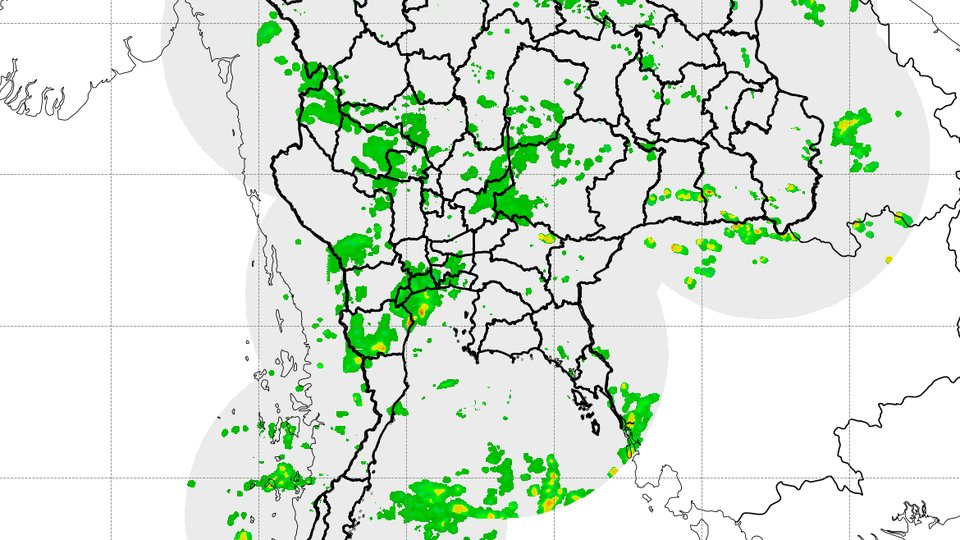
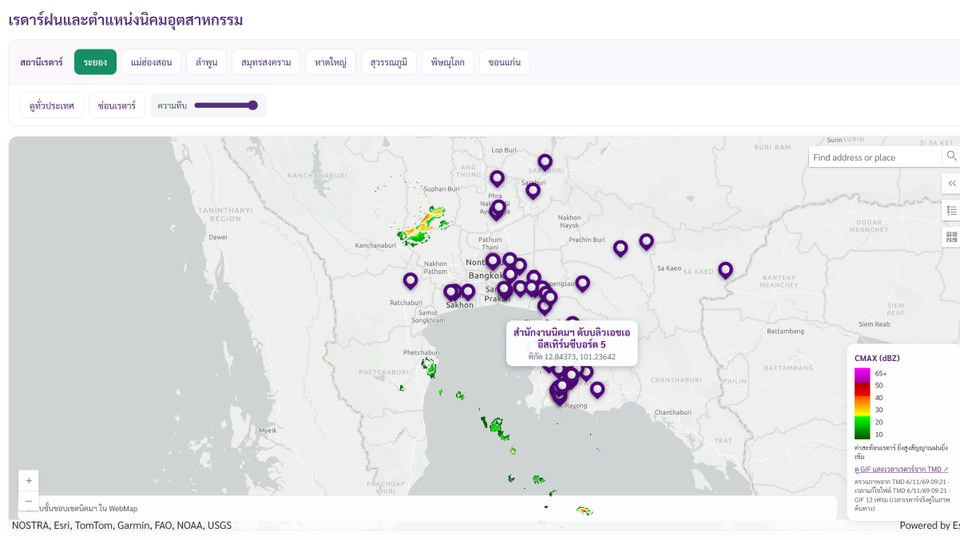
Use real screenshot for rain radar card cover
Claude-Session: https://claude.ai/code/session_01H3bH2N6GZ2F843eaWwxDrr

diff --git a/index.html b/index.html
@@ -254,7 +254,7 @@ footer{background:var(--ink);color:#b9c0bc;font-size:14px}
         </a>
 
         <a class="card" href="https://thanawan-ki.github.io/ieat-emonitoring-line-alert/daily-situation.html" target="_blank" rel="noopener">
-          <span class="card-media"><img src="assets/cover-radar.jpg" alt="ภาพเรดาร์ฝนรวมของกรมอุตุนิยมวิทยา" data-en-alt="Thai Meteorological Department radar composite" width="960" height="540" loading="lazy"><span class="card-tag"><span data-en="Map">แผนที่</span></span></span>
+          <span class="card-media"><img src="assets/cover-radar.jpg?v=20261106" alt="หน้าจอระบบเรดาร์ฝนและตำแหน่งนิคมอุตสาหกรรม สถานีเรดาร์ระยอง" data-en-alt="Screenshot of the rain radar system showing industrial estates around the Rayong radar" width="960" height="540" loading="lazy"><span class="card-tag"><span data-en="Map">แผนที่</span></span></span>
           <span class="card-body">
             <h3 data-en="Rain radar &amp; daily situation">เรดาร์ฝนและสถานการณ์ประจำวัน</h3>
             <span class="card-by" data-en="Data: Thai Meteorological Department">ข้อมูล: กรมอุตุนิยมวิทยา</span>
